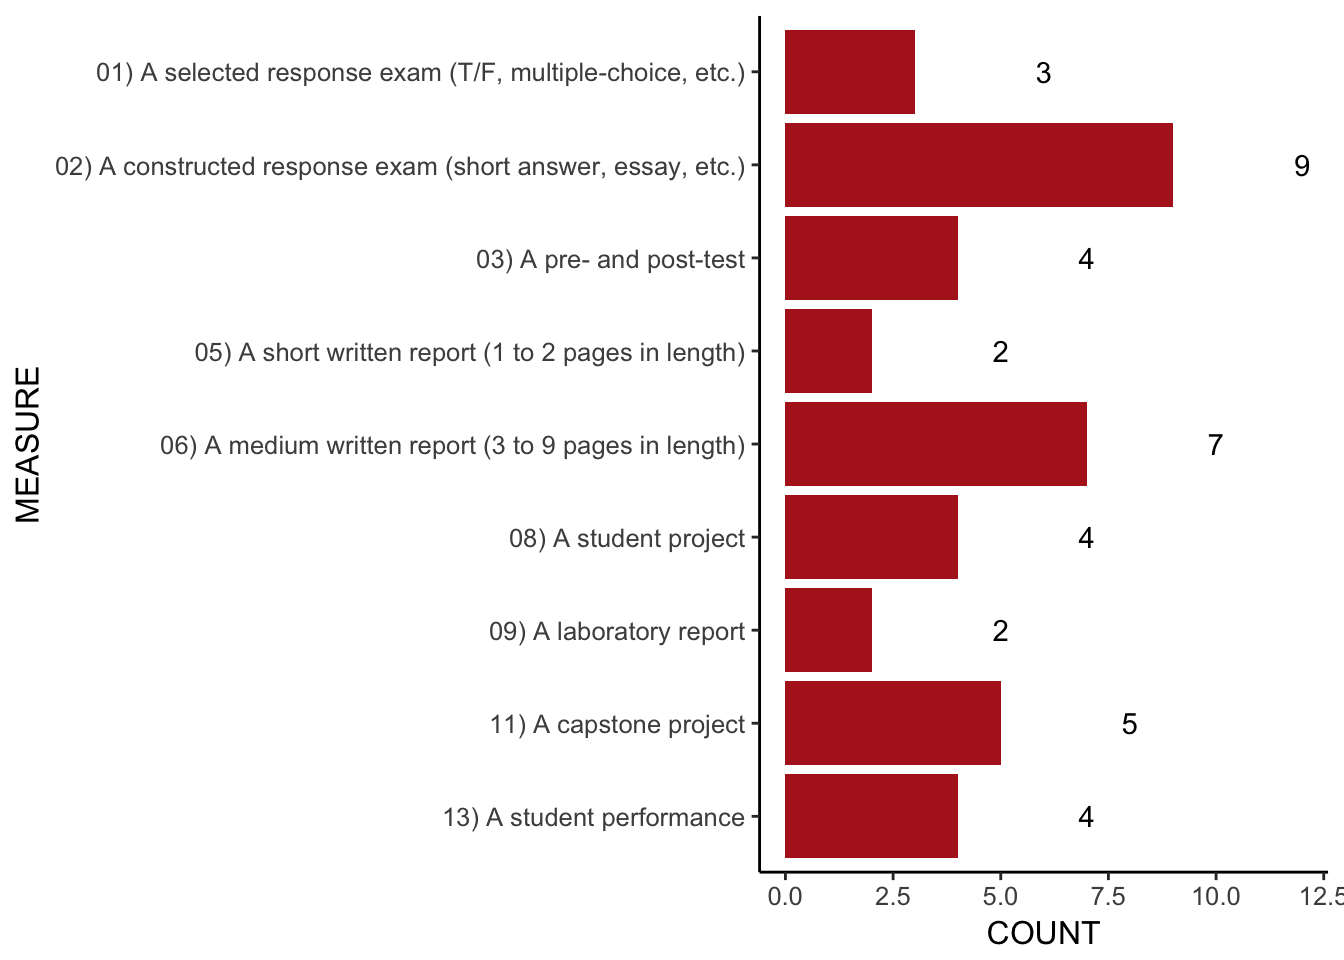
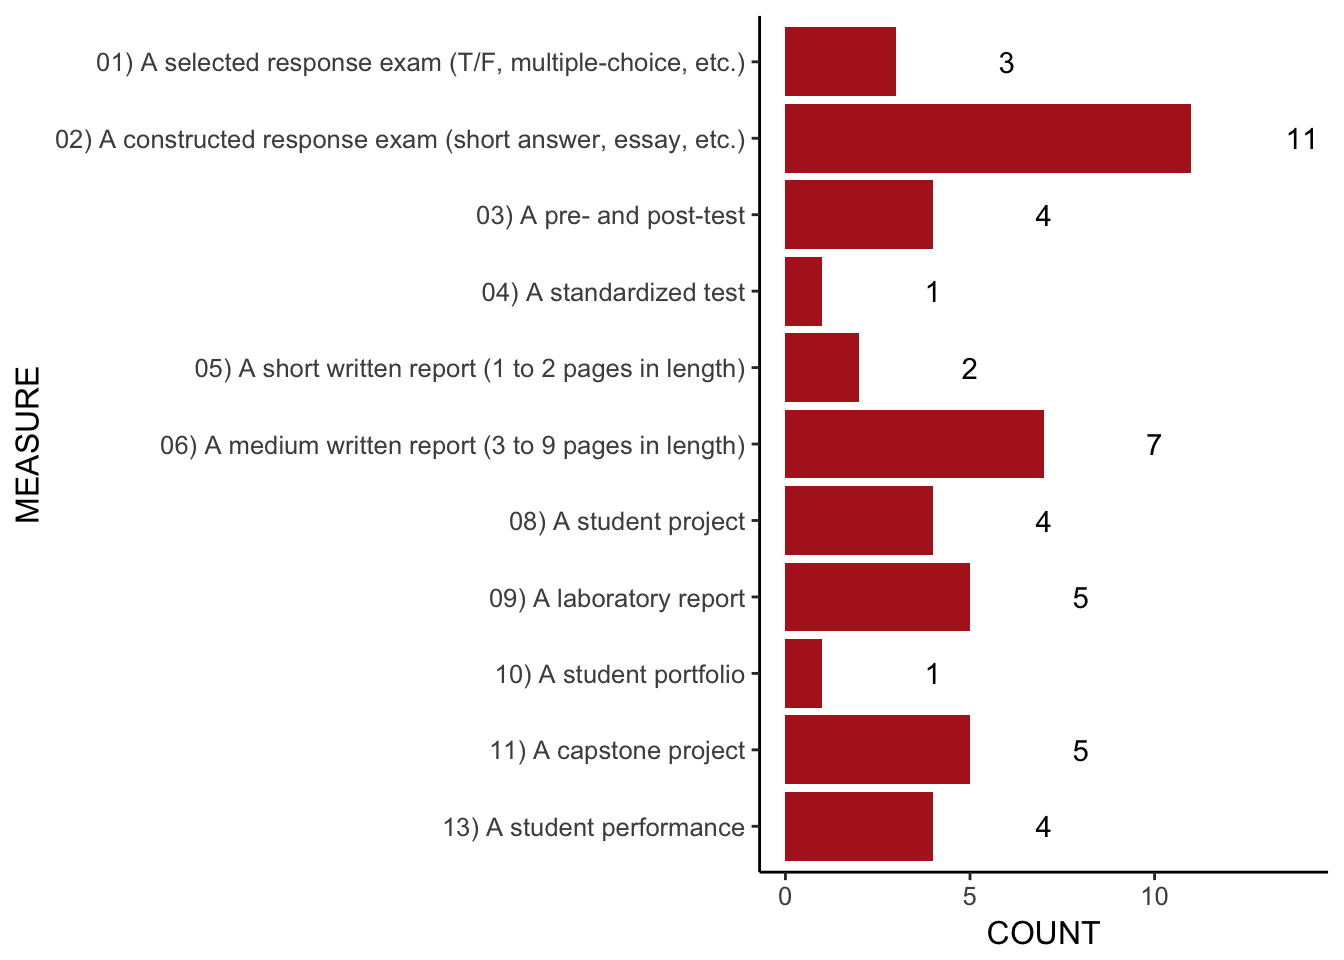
Trying to add a shiny app

diff --git a/docs/results.html b/docs/results.html
@@ -78,7 +78,9 @@
 <li class="chapter" data-level="" data-path="methods.html"><a href="methods.html#googlesheets"><i class="fa fa-check"></i>Retrieving the registration data</a></li>
 <li class="chapter" data-level="" data-path="methods.html"><a href="methods.html#data"><i class="fa fa-check"></i>Data collection</a></li>
 </ul></li>
-<li class="chapter" data-level="" data-path="results.html"><a href="results.html"><i class="fa fa-check"></i>Results and Discussion</a></li>
+<li class="chapter" data-level="" data-path="results.html"><a href="results.html"><i class="fa fa-check"></i>Results and Discussion</a><ul>
+<li class="chapter" data-level="0.1" data-path="results.html"><a href="results.html#shiny-app"><i class="fa fa-check"></i><b>0.1</b> Shiny app</a></li>
+</ul></li>
 <li class="chapter" data-level="" data-path="references.html"><a href="references.html"><i class="fa fa-check"></i>References</a></li>
 <li class="divider"></li>
 <li><a href="https://bookdown.org/yihui/bookdown/" target="blank">Published with bookdown</a></li>
@@ -102,7 +104,7 @@
             <section class="normal" id="section-">
 <div id="results" class="section level1 unnumbered">
 <h1>Results and Discussion</h1>
-<p>A total of 40 registrations have been completed as of February 07, 2018. This includes a total of 35 different courses. The distribution of the registrations between the eight core competencies is shown in figure <a href="results.html#fig:plotByCompetency">1</a>.</p>
+<p>A total of 47 registrations have been completed as of February 18, 2018. This includes a total of 40 different courses. The distribution of the registrations between the eight core competencies is shown in figure <a href="results.html#fig:plotByCompetency">1</a>.</p>
 <div class="figure"><span id="fig:plotByCompetency"></span>
 <img src="Report-1801_files/figure-html/plotByCompetency-1.png" alt="Distribution of course registrations by core competency." width="672" />
 <p class="caption">
@@ -110,11 +112,11 @@ Figure 1: Distribution of course registrations by core competency.
 </p>
 </div>
 <ul>
-<li>A total of 16 exams were registered (40%).<br />
+<li>A total of 19 exams were registered (40.4%).<br />
 </li>
-<li>A total of 20 student products were registered (50%).<br />
+<li>A total of 24 student products were registered (51.1%).<br />
 </li>
-<li>A total of 4 student performances were registered (10%).</li>
+<li>A total of 4 student performances were registered (8.5%).</li>
 </ul>
 <div class="figure"><span id="fig:plotByMeasure"></span>
 <img src="Report-1801_files/figure-html/plotByMeasure-1.png" alt="Distribution of course registrations by standardized measure." width="672" />
@@ -127,7 +129,13 @@ Figure 2: Distribution of course registrations by standardized measure.
 Do you think that there are too many exams in this mix? What is the desired balance between exams, products, and performances for General Education?
 </p>
 </div>
+<div id="shiny-app" class="section level2">
+<h2><span class="header-section-number">0.1</span> Shiny app</h2>
+<p>Here, I am attempting to embed a shiny app into this bookdown document.</p>
+<iframe src="https://www.cliftonfranklund.com/shiny/Dashboard/?showcase=0" width="100%" height="600px">
+</iframe>
 
+</div>
 </div>
 <div id="disqus_thread"></div>
 <script>

diff --git a/docs/index.html b/docs/index.html
@@ -78,7 +78,9 @@
 <li class="chapter" data-level="" data-path="methods.html"><a href="methods.html#googlesheets"><i class="fa fa-check"></i>Retrieving the registration data</a></li>
 <li class="chapter" data-level="" data-path="methods.html"><a href="methods.html#data"><i class="fa fa-check"></i>Data collection</a></li>
 </ul></li>
-<li class="chapter" data-level="" data-path="results.html"><a href="results.html"><i class="fa fa-check"></i>Results and Discussion</a></li>
+<li class="chapter" data-level="" data-path="results.html"><a href="results.html"><i class="fa fa-check"></i>Results and Discussion</a><ul>
+<li class="chapter" data-level="0.1" data-path="results.html"><a href="results.html#shiny-app"><i class="fa fa-check"></i><b>0.1</b> Shiny app</a></li>
+</ul></li>
 <li class="chapter" data-level="" data-path="references.html"><a href="references.html"><i class="fa fa-check"></i>References</a></li>
 <li class="divider"></li>
 <li><a href="https://bookdown.org/yihui/bookdown/" target="blank">Published with bookdown</a></li>

diff --git a/docs/introduction.html b/docs/introduction.html
@@ -78,7 +78,9 @@
 <li class="chapter" data-level="" data-path="methods.html"><a href="methods.html#googlesheets"><i class="fa fa-check"></i>Retrieving the registration data</a></li>
 <li class="chapter" data-level="" data-path="methods.html"><a href="methods.html#data"><i class="fa fa-check"></i>Data collection</a></li>
 </ul></li>
-<li class="chapter" data-level="" data-path="results.html"><a href="results.html"><i class="fa fa-check"></i>Results and Discussion</a></li>
+<li class="chapter" data-level="" data-path="results.html"><a href="results.html"><i class="fa fa-check"></i>Results and Discussion</a><ul>
+<li class="chapter" data-level="0.1" data-path="results.html"><a href="results.html#shiny-app"><i class="fa fa-check"></i><b>0.1</b> Shiny app</a></li>
+</ul></li>
 <li class="chapter" data-level="" data-path="references.html"><a href="references.html"><i class="fa fa-check"></i>References</a></li>
 <li class="divider"></li>
 <li><a href="https://bookdown.org/yihui/bookdown/" target="blank">Published with bookdown</a></li>

diff --git a/docs/methods.html b/docs/methods.html
@@ -78,7 +78,9 @@
 <li class="chapter" data-level="" data-path="methods.html"><a href="methods.html#googlesheets"><i class="fa fa-check"></i>Retrieving the registration data</a></li>
 <li class="chapter" data-level="" data-path="methods.html"><a href="methods.html#data"><i class="fa fa-check"></i>Data collection</a></li>
 </ul></li>
-<li class="chapter" data-level="" data-path="results.html"><a href="results.html"><i class="fa fa-check"></i>Results and Discussion</a></li>
+<li class="chapter" data-level="" data-path="results.html"><a href="results.html"><i class="fa fa-check"></i>Results and Discussion</a><ul>
+<li class="chapter" data-level="0.1" data-path="results.html"><a href="results.html#shiny-app"><i class="fa fa-check"></i><b>0.1</b> Shiny app</a></li>
+</ul></li>
 <li class="chapter" data-level="" data-path="references.html"><a href="references.html"><i class="fa fa-check"></i>References</a></li>
 <li class="divider"></li>
 <li><a href="https://bookdown.org/yihui/bookdown/" target="blank">Published with bookdown</a></li>

diff --git a/docs/references.html b/docs/references.html
@@ -78,7 +78,9 @@
 <li class="chapter" data-level="" data-path="methods.html"><a href="methods.html#googlesheets"><i class="fa fa-check"></i>Retrieving the registration data</a></li>
 <li class="chapter" data-level="" data-path="methods.html"><a href="methods.html#data"><i class="fa fa-check"></i>Data collection</a></li>
 </ul></li>
-<li class="chapter" data-level="" data-path="results.html"><a href="results.html"><i class="fa fa-check"></i>Results and Discussion</a></li>
+<li class="chapter" data-level="" data-path="results.html"><a href="results.html"><i class="fa fa-check"></i>Results and Discussion</a><ul>
+<li class="chapter" data-level="0.1" data-path="results.html"><a href="results.html#shiny-app"><i class="fa fa-check"></i><b>0.1</b> Shiny app</a></li>
+</ul></li>
 <li class="chapter" data-level="" data-path="references.html"><a href="references.html"><i class="fa fa-check"></i>References</a></li>
 <li class="divider"></li>
 <li><a href="https://bookdown.org/yihui/bookdown/" target="blank">Published with bookdown</a></li>
